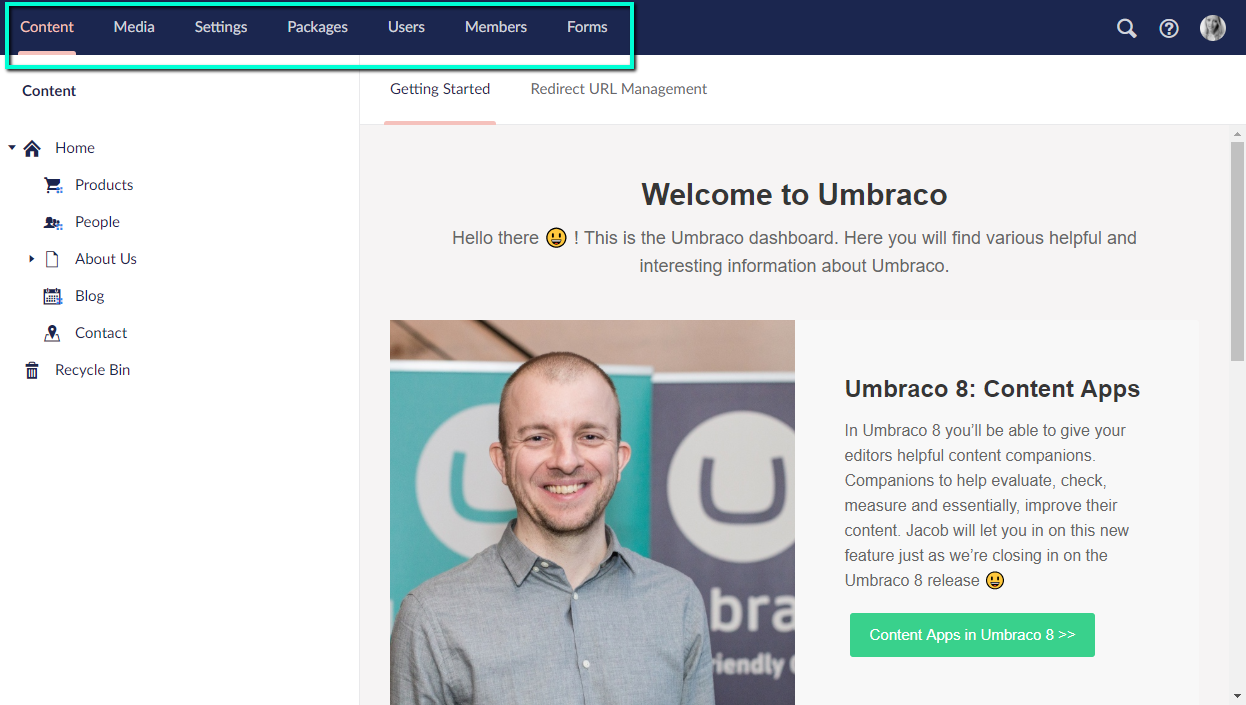
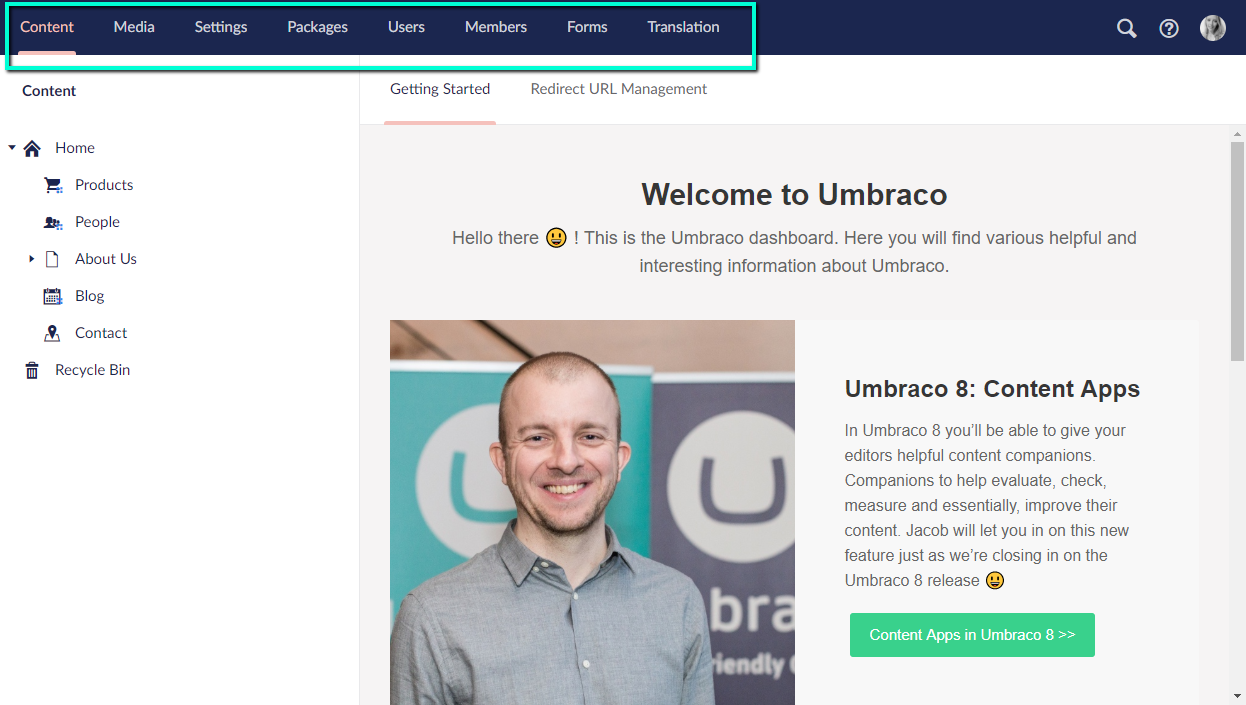
Finish up V8 sections article

Changed region(s): [[0.0, 0.0, 0.61, 0.1248]]

diff --git a/Getting-Started/Backoffice/Sections/index-v8.md b/Getting-Started/Backoffice/Sections/index-v8.md
@@ -24,41 +24,49 @@ The Content section contains the content of the website. Content is displayed as
 In order to create content you must define it using Document Types.
 
 ## Media
-The Media section contains the media for the website. By default you can create folders and upload media files (images and PDFs). You can customize the existing media types or define your own in the Settings section.
+The Media section contains the media for the website. By default you can create folders and upload media files (images and PDFs). You can customize the existing media types or define your own from the Settings section.
 
 ## Settings
-The Settings section is where you can work with the website layout, language/localization and define media and content. The Settings tree consists of:  
+The Settings section is where you can work with the website layout files, languages, and define media and content types. In this section you can also find the Log Viewer to browse through your log files.
+
+The Settings tree consists of: 
 
 - Document Types
-- Templates (.cshtml files)
-- Partial views (.cshtml files)
-- Stylesheets (.css files)
-- Scripts (.js files)
-- Languages
-- Dictionary
 - Media Types
-
-## Developer
-In the developer section you work with packages, data types, macros, relations, XSLT and Razor files. The developer tree consists of:
-
-- Packages
+- Member Types
 - Data Types
 - Macros
 - Relation Types
-- XSLT files
-- Partial View Macro Files
+- Log Viewer
+- Languages
+- Content Tempaltes
+- Templates (`.cshtml` files)
+- Partial views (`.cshtml` files)
+- Partial View Macro Files (`.cshtml` files)
+- Stylesheets (`.css` files)
+- Scripts (`.js` files)
 
-## Members
-Manage, create and customize members, member types and member groups.
+## Packages
+In this section you can browse and install packages into your Umbraco solution. You can also get an overview of all installed packages as well as uninstall packages you do no longer need.
 
 ## Users
 Manage, create and customize backoffice users and user groups.
 
+## Members
+Manage, create and customize members and member groups.
+
 ## Forms
 You can install Umbraco Forms directly from the backoffice by clicking the install button. Once installed this section is where you create and manage your forms.
 
-## Help
-When the help section is opened you get a link to video tutorials about the section you're in.
+## Translation
+This is the section where you create and manage your dictionary items.
 
-## More information
+## Help sections
+In the top-right corner you'll find a search tool, which is also accesible by hitting `CTRL + Space` on your keyboard.
+
+Next to the search tool, there's a help sections, where you can find backoffice tours as well as links to Umbraco resources such as documentation and UmbracoTV.
+
+There's also a small user section with shortcuts to edit the user that's currently logged in, and view most recent activities.
+
+## Custom Sections
 As well as the default sections that come with Umbraco, you can create your own [Custom Sections](../../../Extending/Section-Trees/index.md)
